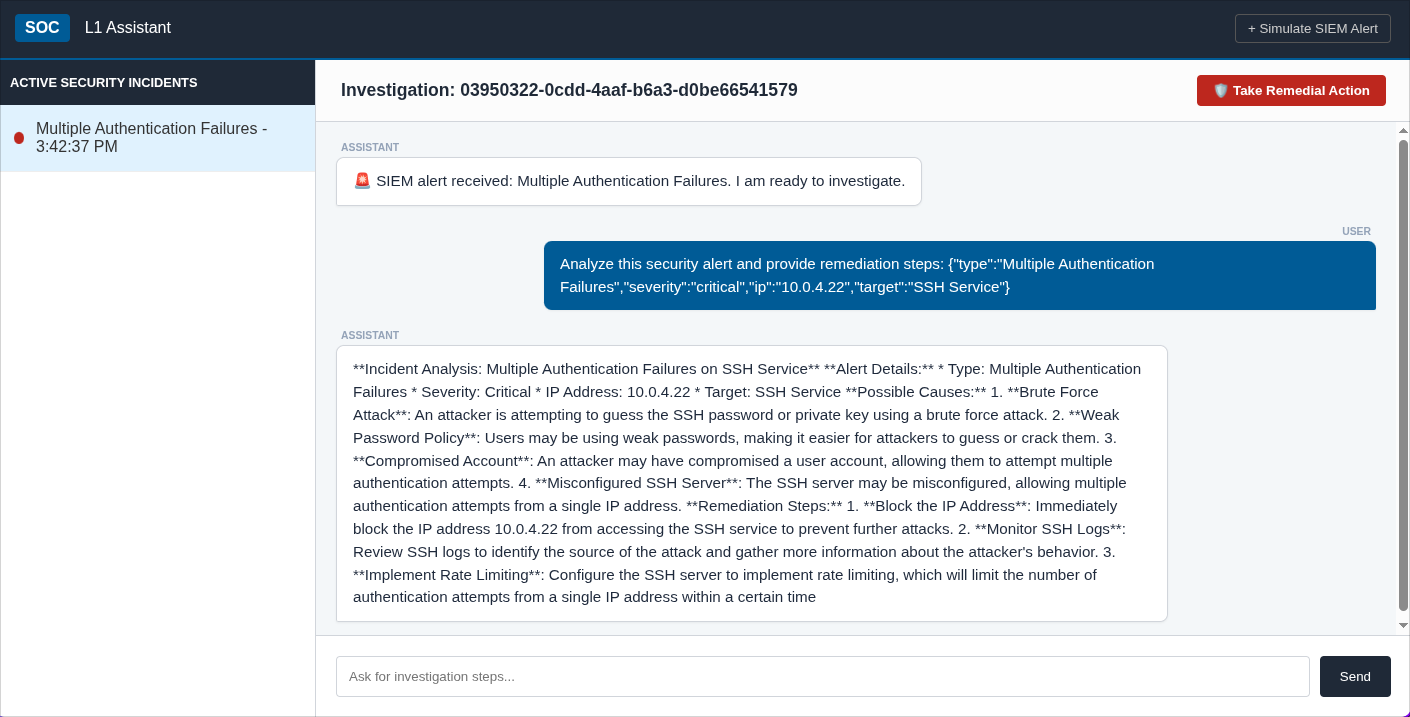
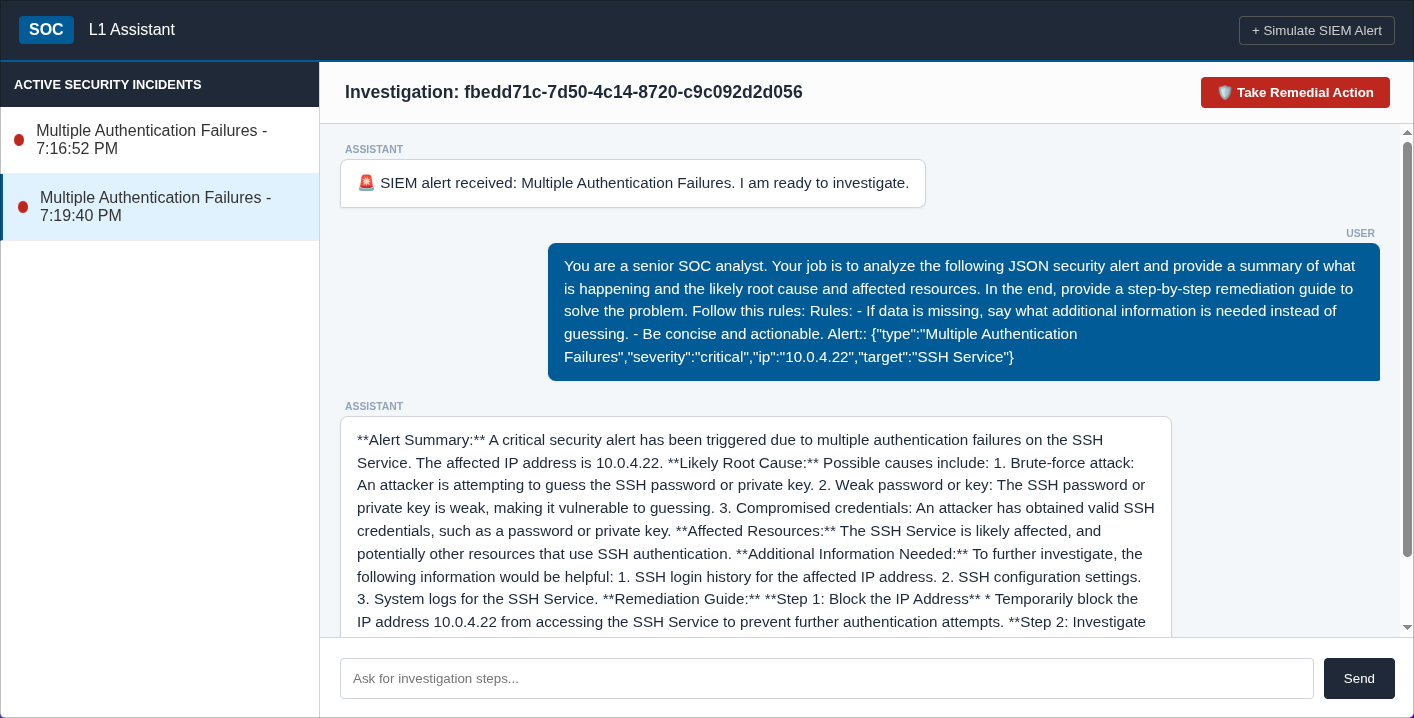
Finalizing the project, adding improvements on worker.js and providing prompts.md

diff --git a/worker/index.js b/worker/index.js
@@ -19,7 +19,15 @@ export class IncidentRoom extends DurableObject {
 
   async performTriage() {
     const alertData = await this.ctx.storage.get("alert");
-    const prompt = `Analyze this security alert and provide remediation steps: ${JSON.stringify(alertData)}`;
+    const prompt = `
+      You are a senior SOC analyst. Your job is to analyze the following JSON security alert and provide a summary of what is happening and the likely root cause and affected resources. In the end, provide a step-by-step remediation guide to solve the problem. Follow this rules:
+
+      Rules:
+      - If data is missing, say what additional information is needed instead of guessing.
+      - Be concise and actionable.
+
+      Alert:: ${JSON.stringify(alertData)}
+    `;
     return await this.chat(prompt);
   }
 
@@ -44,7 +52,8 @@ export class IncidentRoom extends DurableObject {
     let history = await this.ctx.storage.get("history") || [];
     const systemPrompt = {
       role: "system",
-      content: `You are a SOC Expert investigating: ${JSON.stringify(alertData)}.`
+      content: `You are a SOC analyst, acting as a senior security analyst investigating the current incident: ${JSON.stringify(alertData)}. 
+      Help the user investigate, contain, and resolve this specific alert.`
     };
     history.push({ role: "user", content: userMessage });
     const aiResponse = await this.env.AI.run("@cf/meta/llama-3.1-8b-instruct", {

diff --git a/src/api/api.jsx b/src/api/api.jsx
@@ -1,4 +1,4 @@
-const BASE_URL = import.meta.env.VITE_API_URL || 'http://localhost:8787';
+const BASE_URL = import.meta.env.VITE_API_URL;
 const API_KEY = import.meta.env.VITE_API_KEY;
 
 export const api = {
@@ -32,7 +32,7 @@ export const api = {
     return res.json();
   },
 
-  // NEW: Added the remediate call with auth
+  // Remediate call
   remediate: async (incidentId) => {
     const res = await fetch(`${BASE_URL}/api/remediate/${incidentId}`, {
       method: 'POST',

diff --git a/prompts.md b/prompts.md
@@ -1,0 +1,13 @@
+For this project, Gemini 3 model was used during the development of this project.
+
+## Prompts
+
+### Project Idea and Conceptualization
+
+ * For the project im planning on building a SOC assistant, where an alert is provided to the agent and it provides remediation steps capable of in the future be integrated with MCP servers using cloudflare workers. propose a clear high level architecture for the project divided into components and for each component describe its reponsabilities into clear starting guidelines.
+ 
+ * Based on the project idea provided, map each part of the system to specific Cloudflare components that can be used, providing a summary on how they benefit the project, following the project requirements provided.
+
+### Project Documentation
+
+ * Using this existing README template, generate a README.md draft for the project described above.
